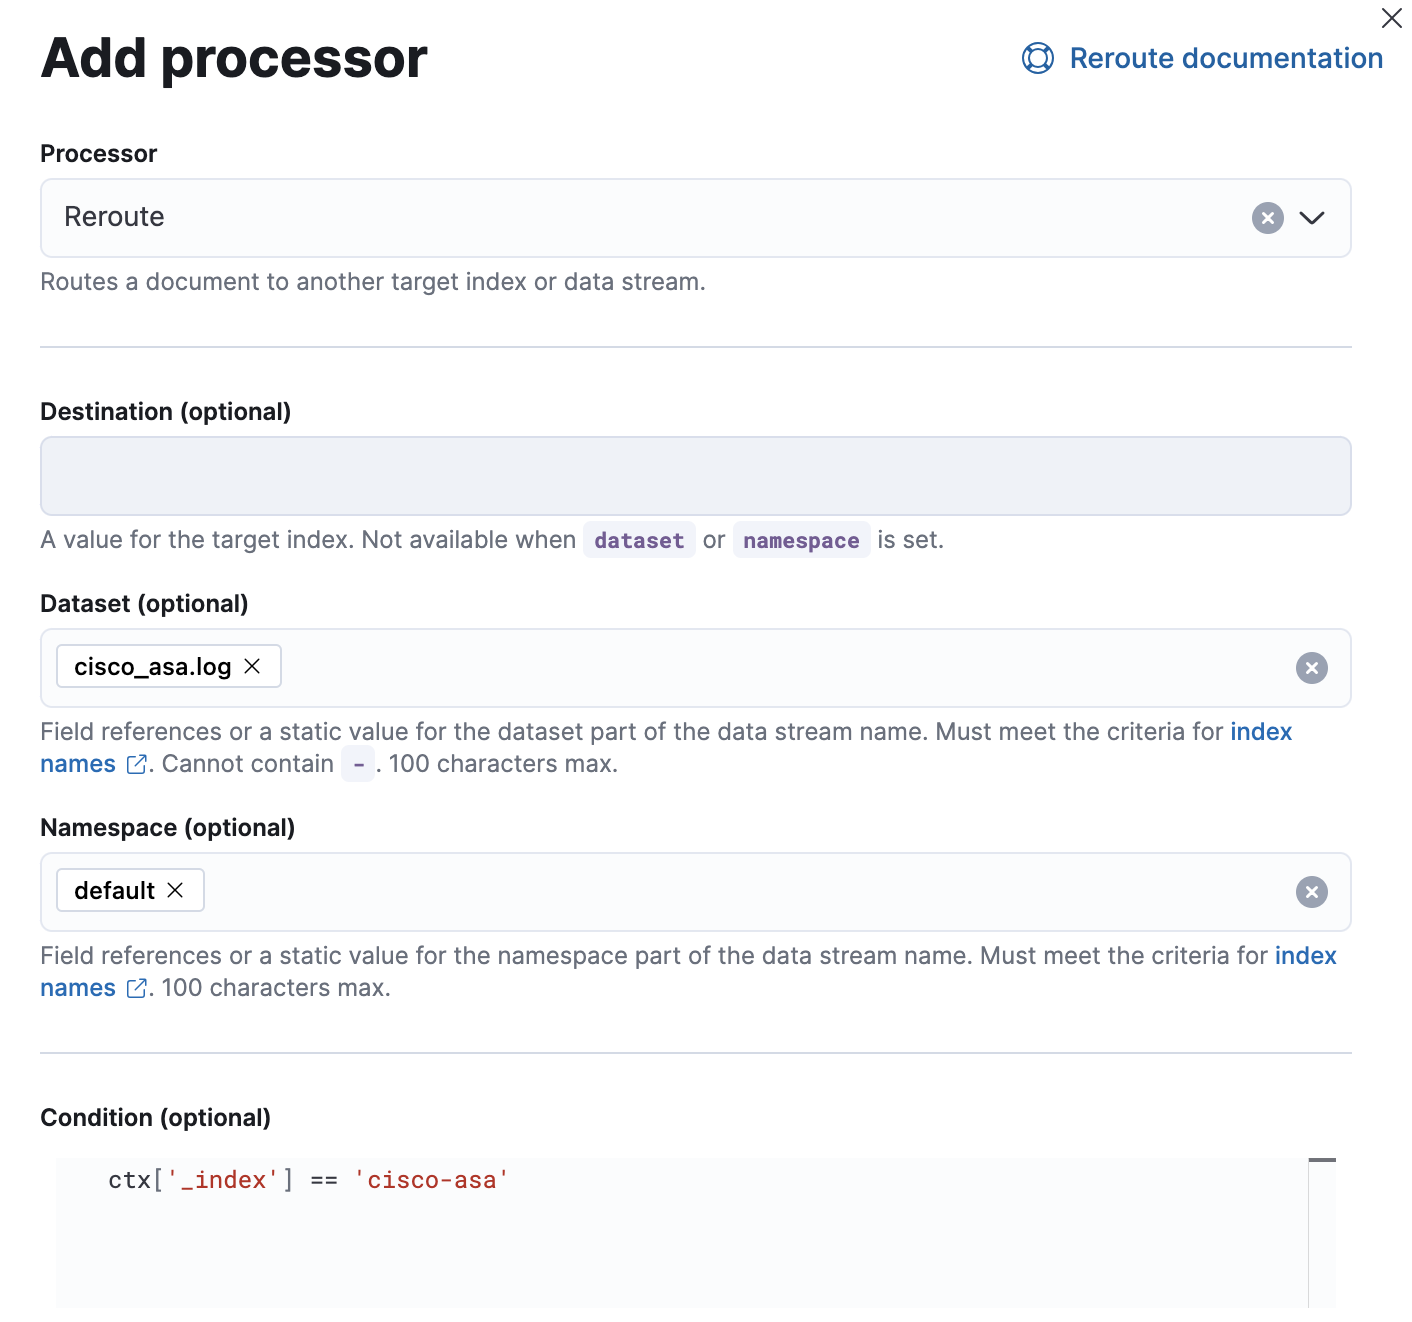
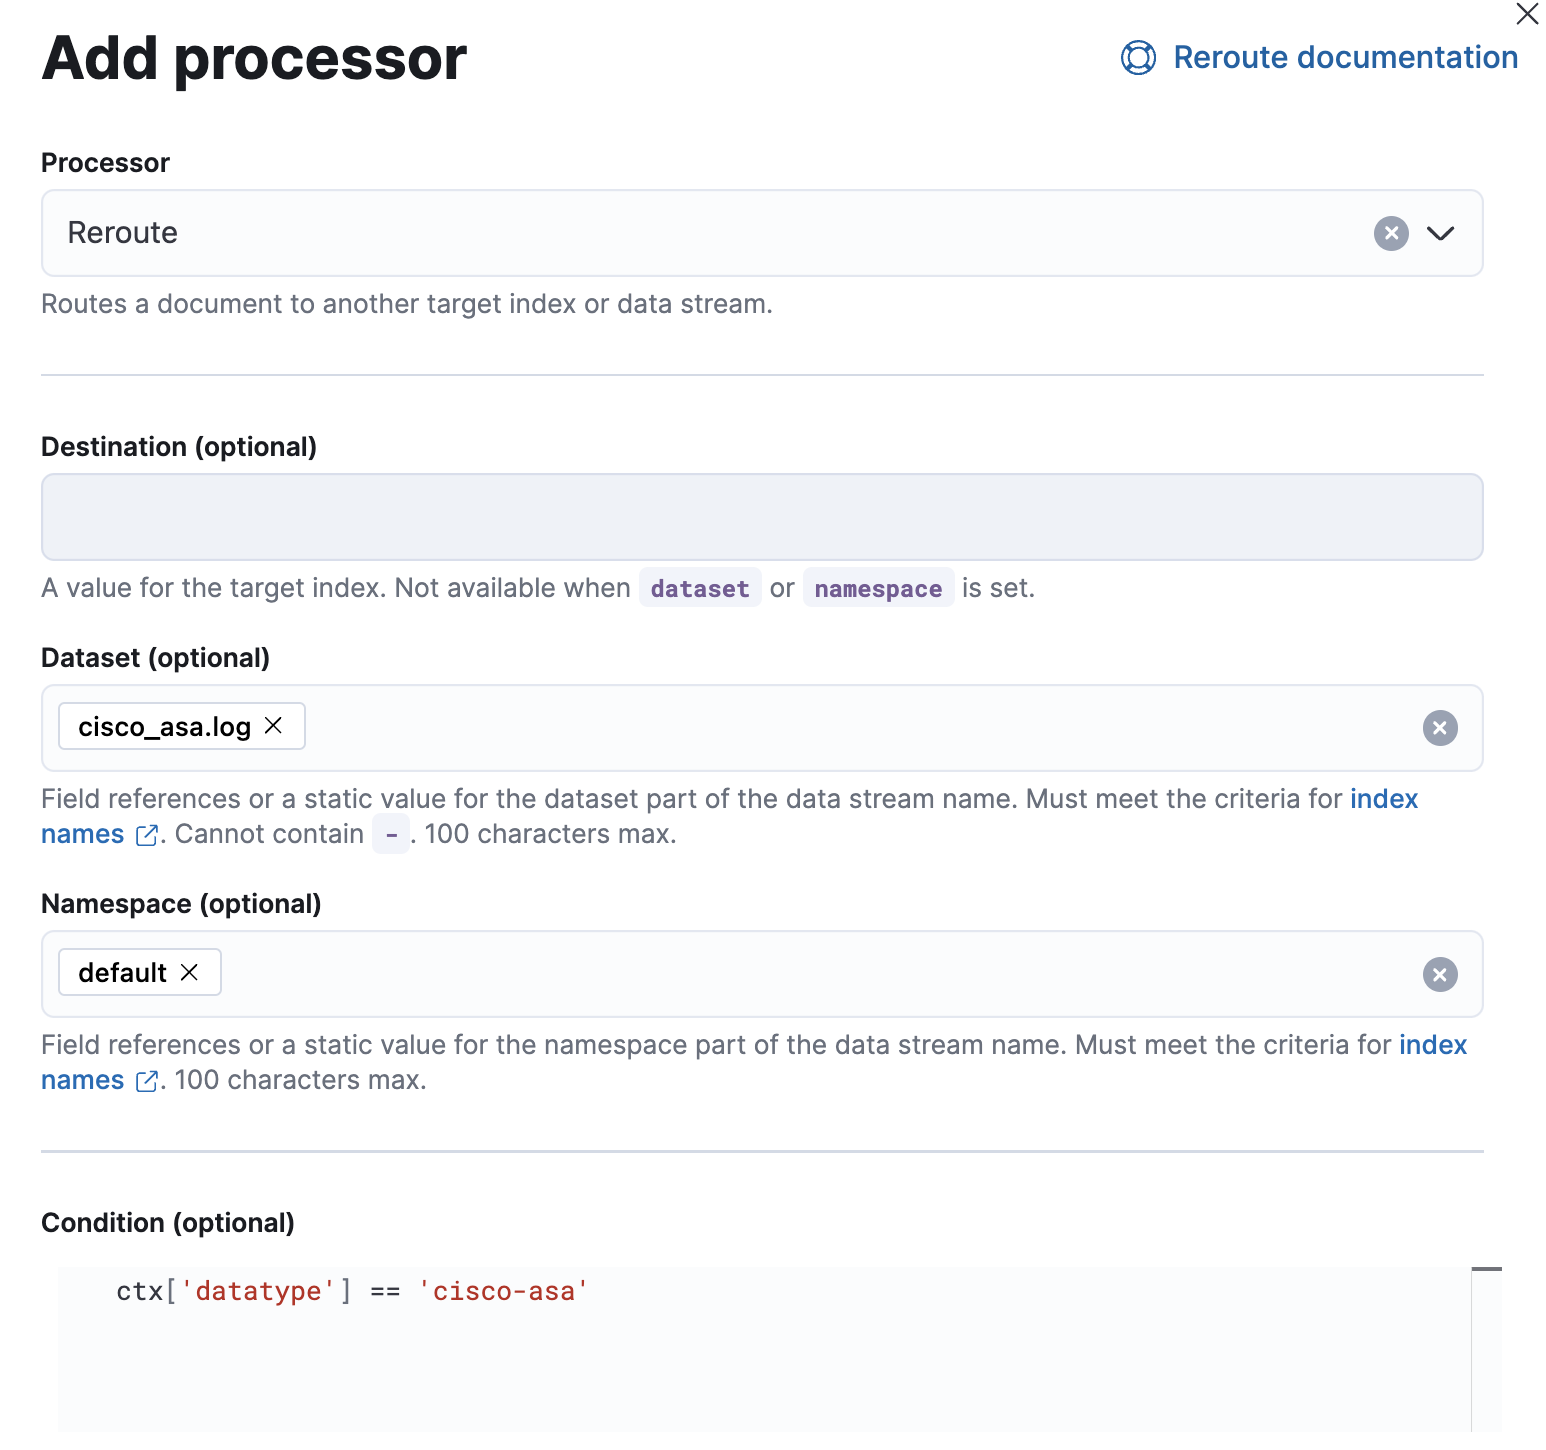
updating guidance from _index to datatype

diff --git a/packages/cribl/docs/README.md b/packages/cribl/docs/README.md
@@ -28,11 +28,11 @@ The Cribl integration offers users a way to ingest logs from either of Cribl's E
 
     2. Add informational field to Cribl Source
 
-        Configure the Cribl Source to specify the source of the data in the `_index` field.
+        Configure the Cribl Source to specify the source of the data in the `datatype` field.
 
         ![Configure Cribl Source fields](../img/cribl-source-fields.png)
 
-        See [Cribl Data Onboarding](https://docs.cribl.io/stream/data-onboarding/) for more information on configuring sources.
+        See [Cribl Data Onboarding](https://docs.cribl.io/stream/data-onboarding/) for more information on configuring sources, and [Cribl datatype](https://docs.cribl.io/search/datatypes/#) for more information on data types.
 
     3. Create custom pipeline
     
@@ -47,7 +47,7 @@ The Cribl integration offers users a way to ingest logs from either of Cribl's E
 
             2. Set the **Namespace** to `default`.
 
-            3. Fill in the conditional to specify the Cribl `_index` source field. 
+            3. Fill in the conditional to specify the Cribl `datatype` source field. 
 
             ![Reroute processor](../img/custom-pipeline-reroute-processor.png)
 
